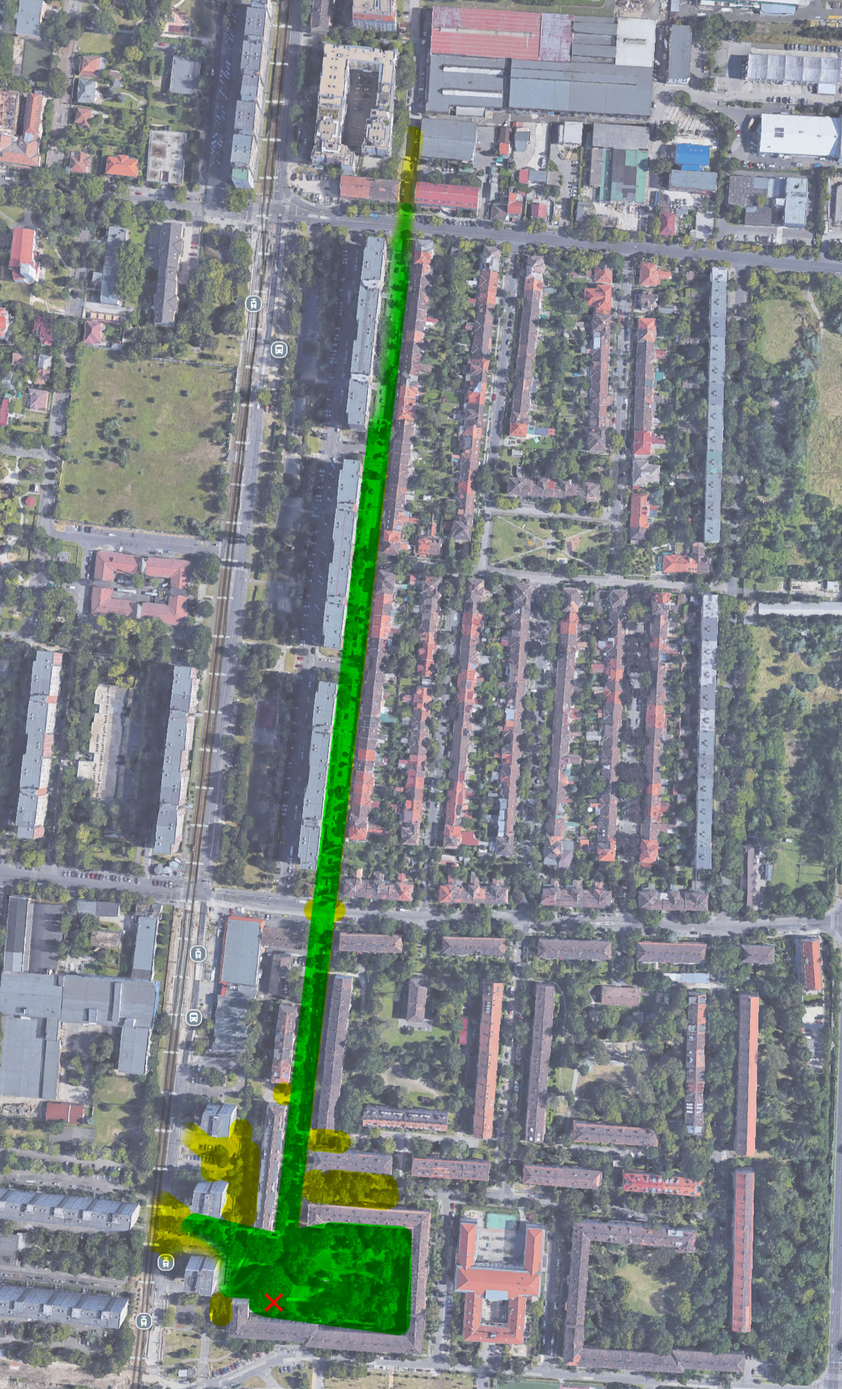
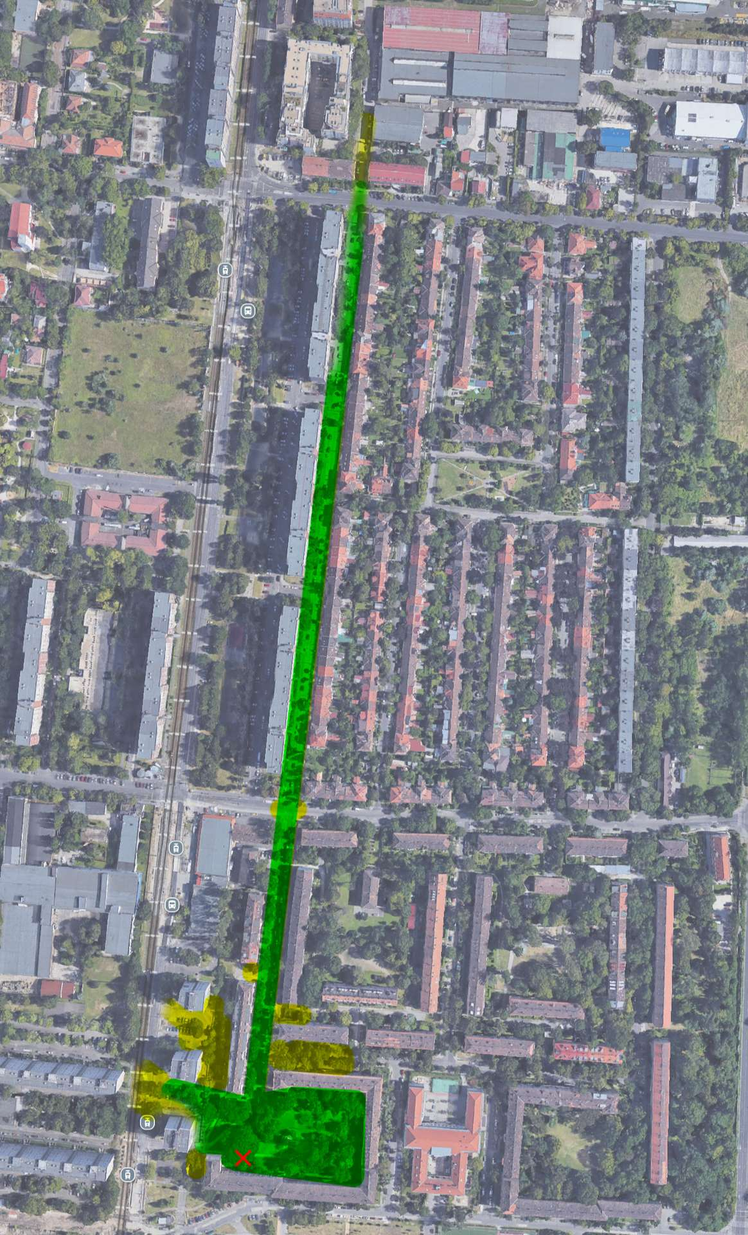
Added new pictures and fixed typos

Changed region(s): [[0.3093, 0.9375, 0.3402, 0.9688]]

diff --git a/src/pages/pictures.html b/src/pages/pictures.html
@@ -236,6 +236,12 @@
                         <p class="text-white text-sm">Transmitter Implanted In a Mouse</p>
                     </div>
                 </div>
+                <div class="group relative overflow-hidden rounded-lg shadow-md hover:shadow-xl transition duration-300">
+                    <img src="../assets/images/60-mg-transmitter.jpg" alt="Smallest Telemetry Transmitter" class="w-full h-64 object-cover transform group-hover:scale-105 transition duration-500">
+                    <div class="absolute bottom-0 left-0 right-0 bg-gradient-to-t from-black/80 to-transparent p-4 translate-y-full group-hover:translate-y-0 transition duration-300">
+                        <p class="text-white text-sm">The World's Smallest Battery-Powered Wildlife Telemetry Transmitter (60 mg)</p>
+                    </div>
+                </div>
             </div>
         </section>
 
@@ -271,21 +277,33 @@
                     </div>
                 </div>
                 <div class="group relative overflow-hidden rounded-lg shadow-md hover:shadow-xl transition duration-300">
-                    <img src="../assets/images/drón 868 MHz lódarázs jeladó teszt.jpg" alt="Asian Hornet Comparison 3" class="w-full h-64 object-cover transform group-hover:scale-105 transition duration-500">
+                    <img src="../assets/images/drón 868 MHz lódarázs jeladó teszt.jpg" alt="Asian Hornet Transmitter Test" class="w-full h-64 object-cover transform group-hover:scale-105 transition duration-500">
                     <div class="absolute bottom-0 left-0 right-0 bg-gradient-to-t from-black/80 to-transparent p-4 translate-y-full group-hover:translate-y-0 transition duration-300">
                         <p class="text-white text-sm">Drone Range Test for Our 868 MHz Insect Transmitter</p>
                     </div>
                 </div>
                 <div class="group relative overflow-hidden rounded-lg shadow-md hover:shadow-xl transition duration-300">
-                    <img src="../assets/images/ble_range_city_uncovered.jpg" alt="Asian Hornet Comparison 3" class="w-full h-64 object-cover transform group-hover:scale-105 transition duration-500">
+                    <img src="../assets/images/ble_range_city_uncovered.jpg" alt="Asian Hornet Transmitter Range" class="w-full h-64 object-cover transform group-hover:scale-105 transition duration-500">
                     <div class="absolute bottom-0 left-0 right-0 bg-gradient-to-t from-black/80 to-transparent p-4 translate-y-full group-hover:translate-y-0 transition duration-300">
-                        <p class="text-white text-sm">The range of our 2.4 GHz Insect Transmitter in an Urban Environment (Transmitter was placed at 2 m above ground, max distance of reception was 810 m)</p>
+                        <p class="text-white text-sm">The Range of Our 2.4 GHz Insect Transmitter in an Urban Environment (Transmitter was Placed at 2 m above Ground, Max Distance of Reception was 810 m)</p>
                     </div>
                 </div>
                 <div class="group relative overflow-hidden rounded-lg shadow-md hover:shadow-xl transition duration-300">
-                    <img src="../assets/images/ble_range_partial_obstr.jpg" alt="Asian Hornet Comparison 3" class="w-full h-64 object-cover transform group-hover:scale-105 transition duration-500">
+                    <img src="../assets/images/ble_range_partial_obstr.jpg" alt="Asian Hornet Transmitter (2.4 GHz) Range Obstructed by Trees" class="w-full h-64 object-cover transform group-hover:scale-105 transition duration-500">
                     <div class="absolute bottom-0 left-0 right-0 bg-gradient-to-t from-black/80 to-transparent p-4 translate-y-full group-hover:translate-y-0 transition duration-300">
-                        <p class="text-white text-sm">The range of our 2.4 GHz Insect Transmitter in an Urban Environment, Obstructed by Trees (Transmitter was placed at 4 m above ground, max distance of reception was 420 m)</p>
+                        <p class="text-white text-sm">The Range of Our 2.4 GHz Insect Transmitter in an Urban Environment, Obstructed by Trees (Transmitter was Placed at 4 m above Ground, Max Distance of Reception was 420 m)</p>
+                    </div>
+                </div>
+                <div class="group relative overflow-hidden rounded-lg shadow-md hover:shadow-xl transition duration-300">
+                    <img src="../assets/images/868 MHz range test.jpg" alt="Asian Hornet Transmitter (868 MHz) Range Obstructed by Trees" class="w-full h-64 object-cover transform group-hover:scale-105 transition duration-500">
+                    <div class="absolute bottom-0 left-0 right-0 bg-gradient-to-t from-black/80 to-transparent p-4 translate-y-full group-hover:translate-y-0 transition duration-300">
+                        <p class="text-white text-sm">The Range of Our 868 MHz Insect Transmitter in an Urban Environment, Obstructed by Trees (Transmitter was Placed at 4 m above Ground)</p>
+                    </div>
+                </div>
+                <div class="group relative overflow-hidden rounded-lg shadow-md hover:shadow-xl transition duration-300">
+                    <img src="../assets/images/forest-range-test-comparison-eng.jpg" alt="868 MHz Avian Transmitter Range" class="w-full h-64 object-cover transform group-hover:scale-105 transition duration-500">
+                    <div class="absolute bottom-0 left-0 right-0 bg-gradient-to-t from-black/80 to-transparent p-4 translate-y-full group-hover:translate-y-0 transition duration-300">
+                        <p class="text-white text-sm">Range Test of Our 2.4 GHz and 868 MHz Avian Transmitters in a Dense Forest. (Maximum Range for the 868 MHz Transmitter is Longer than Pictured.)</p>
                     </div>
                 </div>
             </div>
